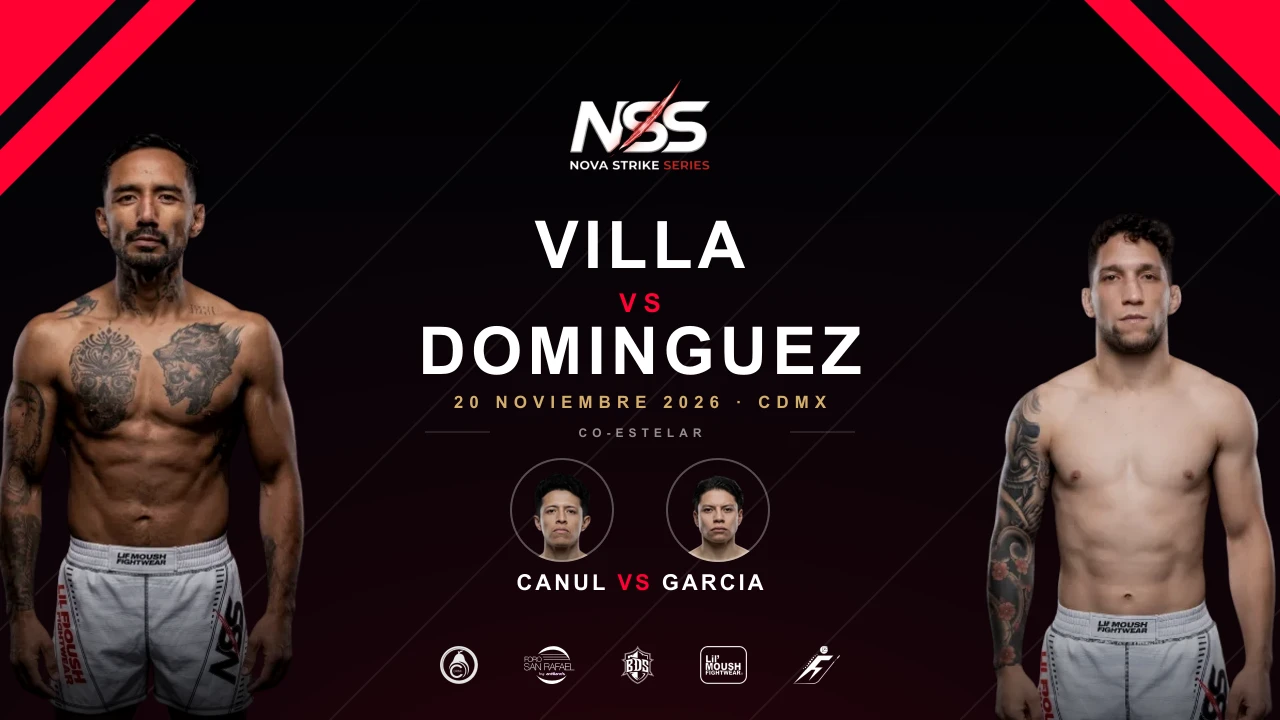
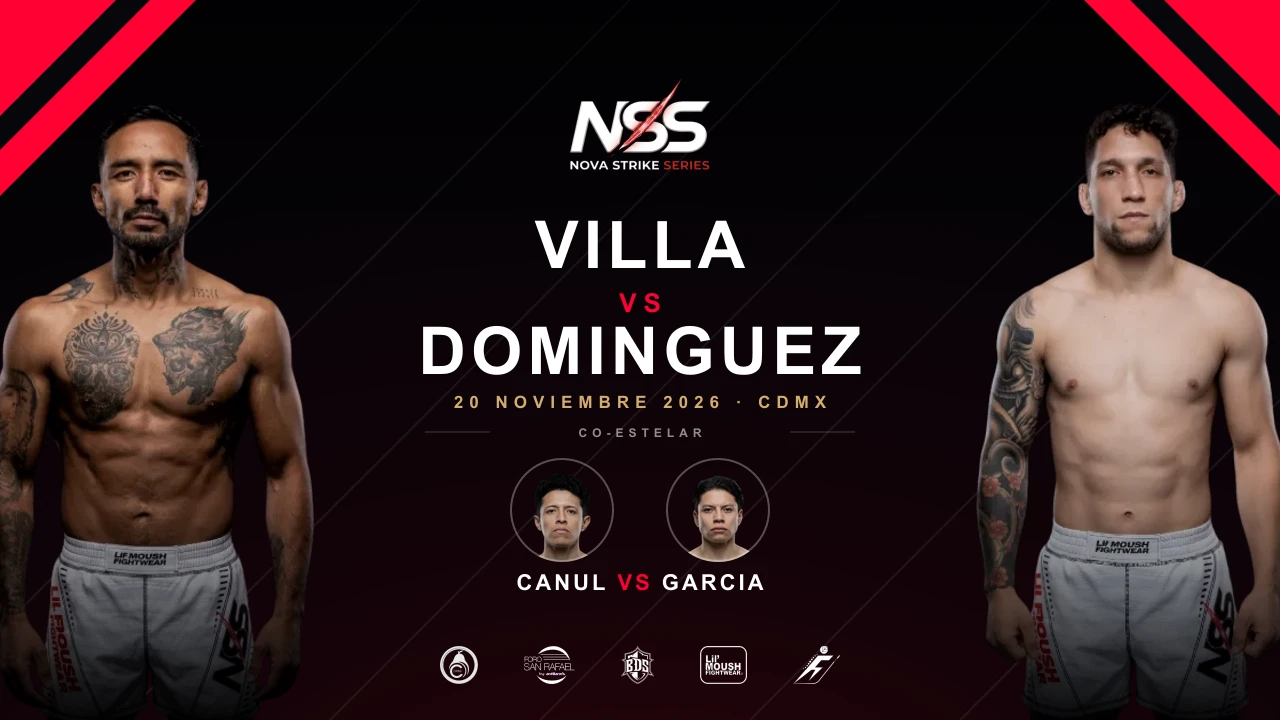
Los dos peleadores de la portada quedan del mismo tamano
Se escalaban por el alto de la figura, pero las fotos vienen con encuadres
distintos: uno salia con la cabeza mas chica y mas arriba. Ahora la escala
sale del alto de la cabeza y las dos barbillas caen en la misma linea.

Changed region(s): [[0.75, 0.1528, 1.0, 1.0], [0.0, 0.1528, 0.25, 1.0]]

diff --git a/herramientas/portada.js b/herramientas/portada.js
@@ -28,21 +28,29 @@ async function medir(f) {
   return { w, h, y0, y1, cab, cx: (c0 + c1) / 2 };
 }
 
-// Cuerpo completo escalado para que entre en la portada, apagado hacia abajo.
-async function cuerpo(f, alto, apaga) {
+// Cuerpo escalado por el alto de la cabeza, no por el de la figura: las fotos
+// vienen con encuadres distintos y si se escalan por el cuerpo uno queda con
+// la cabeza mas grande que el otro. La barbilla de los dos cae en la misma
+// linea, para que se vean parejos.
+async function cuerpo(f, altoCabeza, barbillaY, apagaY) {
   const m = await medir(f);
-  const s = alto / (m.h - m.y0);
+  const s = altoCabeza / m.cab;
   const nw = Math.round(m.w * s), nh = Math.round(m.h * s);
-  let b = await sharp(f).resize(nw, nh).modulate({ brightness: 0.92, saturation: 0.82 }).linear(1.08, -10).ensureAlpha().raw().toBuffer({ resolveWithObject: true });
+  const top = Math.round(barbillaY - (m.y0 + m.cab) * s);
+  const b = await sharp(f).resize(nw, nh).modulate({ brightness: 0.92, saturation: 0.82 }).linear(1.08, -10)
+    .ensureAlpha().raw().toBuffer({ resolveWithObject: true });
   const { data, info } = b;
   for (let y = 0; y < info.height; y++) {
-    const t = (y - apaga) / (info.height - apaga);
-    const k = y > apaga ? Math.max(0, 1 - 0.92 * t) : 1;
+    const yb = top + y;                                  // donde cae esa fila en la portada
+    const k = yb > apagaY ? Math.max(0, 1 - 0.95 * (yb - apagaY) / (H - apagaY)) : 1;
     if (k >= 0.999) continue;
     for (let x = 0; x < info.width; x++) { const i = (y * info.width + x) * 4; data[i] *= k; data[i + 1] *= k; data[i + 2] *= k; }
   }
-  const png = await sharp(data, { raw: { width: info.width, height: info.height, channels: 4 } }).png().toBuffer();
-  return { buf: png, w: info.width, h: info.height, top: Math.round(-m.y0 * s), cx: Math.round(m.cx * s) };
+  // lo que se sale de la portada se recorta: sharp no pega algo mas grande
+  let png = await sharp(data, { raw: { width: info.width, height: info.height, channels: 4 } }).png().toBuffer();
+  const cy = Math.max(0, -top), ch = Math.min(info.height - cy, H - Math.max(0, top));
+  png = await sharp(png).extract({ left: 0, top: cy, width: info.width, height: ch }).png().toBuffer();
+  return { buf: png, w: info.width, top: Math.max(0, top), cx: Math.round(m.cx * s) };
 }
 
 // Cara recortada en circulo, para la co-estelar.
@@ -85,10 +93,10 @@ const apellido = n => { const p = String(n).trim().split(/\s+/); return (p.lengt
     '</svg>');
 
   // ---- peleadores de la estelar ----
-  const ALTO = 625, APAGA = 430;
-  const izq = await cuerpo(datos.estelar.rojoFoto, ALTO, APAGA);
-  const der = await cuerpo(datos.estelar.azulFoto, ALTO, APAGA);
-  const yIzq = H - ALTO - izq.top, yDer = H - ALTO - der.top;
+  const CABEZA = 120, BARBILLA = 222, APAGA = 470;
+  const izq = await cuerpo(datos.estelar.rojoFoto, CABEZA, BARBILLA, APAGA);
+  const der = await cuerpo(datos.estelar.azulFoto, CABEZA, BARBILLA, APAGA);
+  const yIzq = izq.top, yDer = der.top;
   const xIzq = Math.round(150 - izq.cx), xDer = Math.round(W - 150 - der.cx);
 
   // ---- caras de la co-estelar ----
